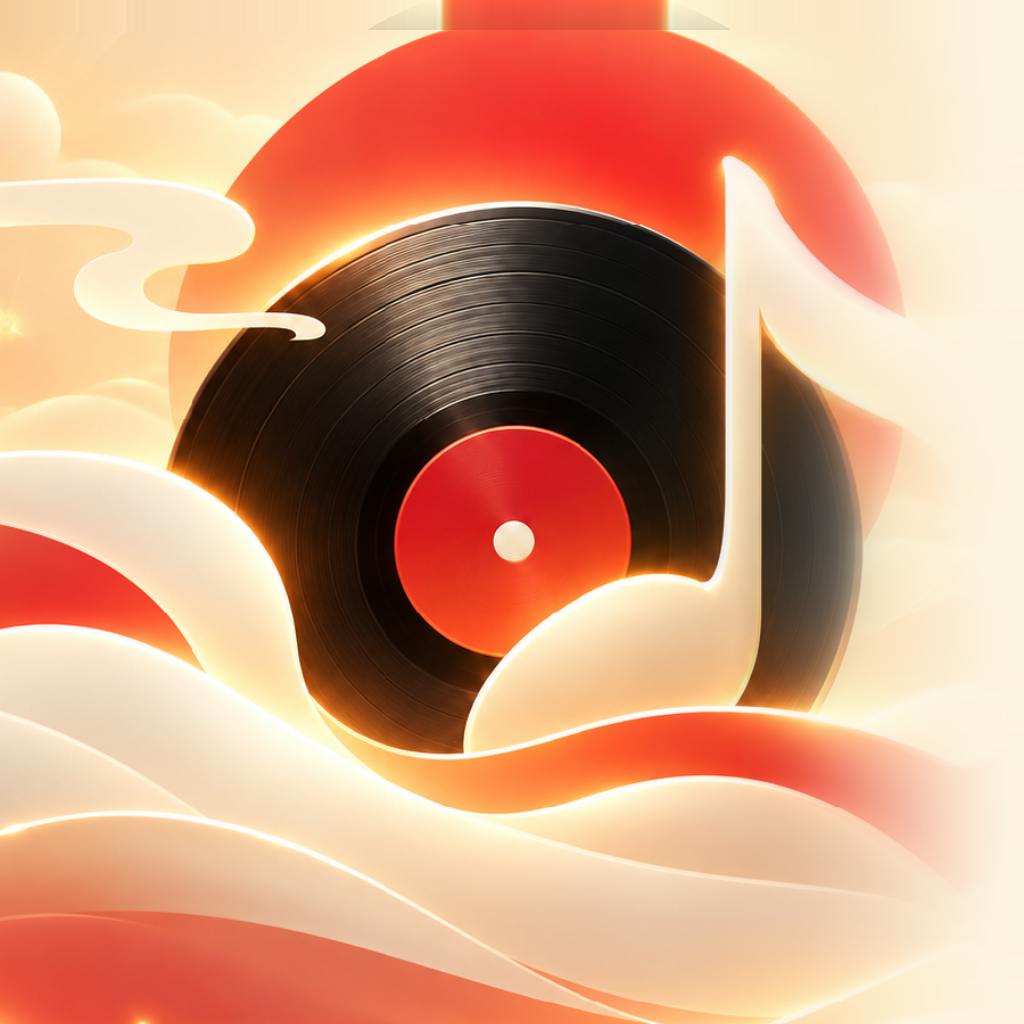
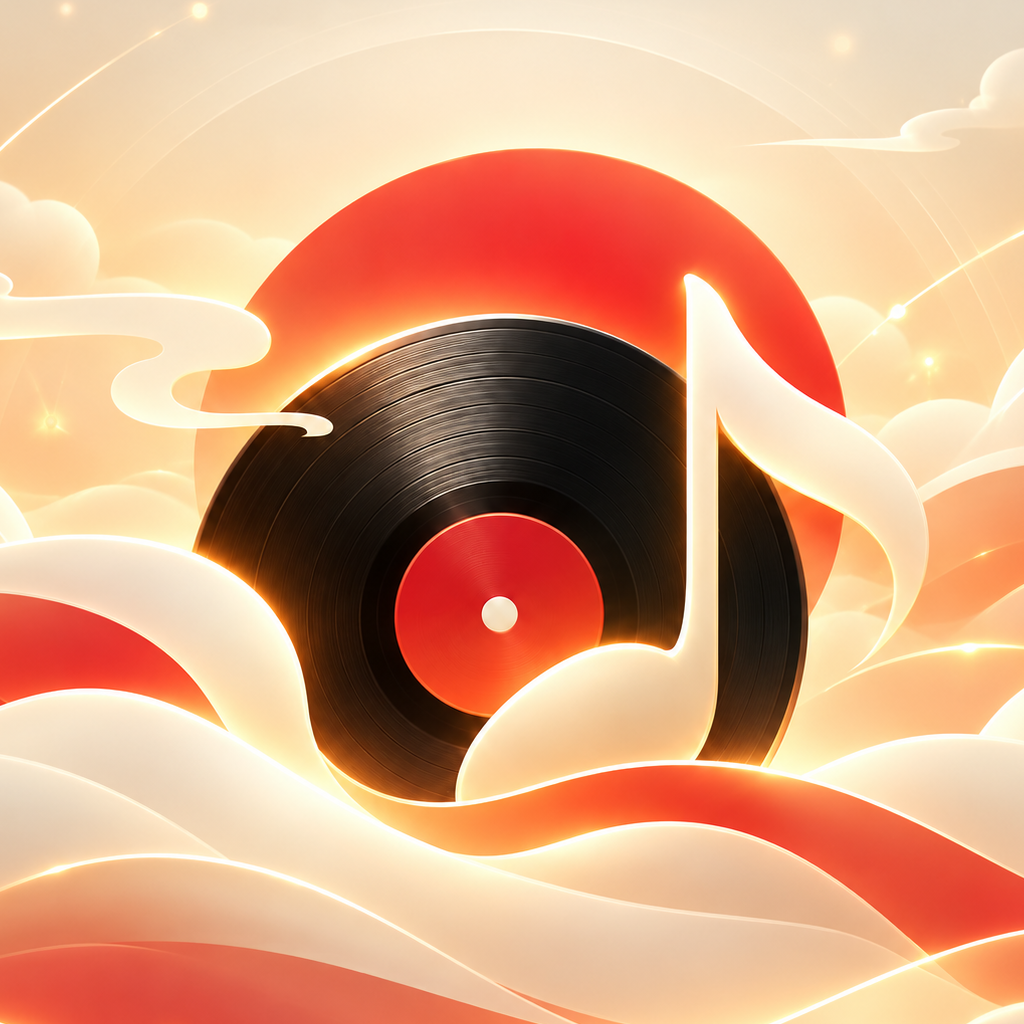
换应用图标：用户自己调好的那一版 (#541)

diff --git a/internal/platform/icon_test.go b/internal/platform/icon_test.go
@@ -217,7 +217,7 @@ func checkSizeStillReadsAsTheSubject(t *testing.T, size int) {
 	}
 	w, o := float64(subject)/float64(opaque), float64(accent)/float64(opaque)
 	d := float64(disc) / float64(opaque)
-	// ⚠ **阈值是按这张图标量的**：源图上红日（主体）占 67%、黑胶 13%、米色底 14%，
+	// ⚠ **阈值是按这张图标量的**：源图上红日（主体）占 66%、黑胶 11%、米色底 19%，
 	// 各尺寸几乎不变（缩到最小那一档黑胶会被米色稀释到 7% 上下）。
 	// 而**切完圆角留白之后**（图案只占画布的 0.824² ≈ 68%）再缩到最小那一档，
 	// 三个色系都会被彼此稀释一档。
@@ -228,10 +228,10 @@ func checkSizeStillReadsAsTheSubject(t *testing.T, size int) {
 	// **黑胶唱片**（细节）。
 	//
 	// ⚠ **米色那条在 2026-10-26 重新量过**：那之前源图是大远景，米色底占 59%，
-	// 阈值给的是 12%；后来把源图重新取景（**唱片摆到正中**，见
-	// `TestTheSubjectSitsInTheMiddle`），唱片和红日占满了画面，
-	// 米色底**实测 13.5%~18.4%**。阈值按同一套口径重取：**断在 10%**
-	// （实测最低 13.5%，留两成余量，和黑胶那条一个档）。
+	// 阈值给的是 12%；后来换了源图（**用户自己调好的那一版**，见
+	// `TestTheSubjectSitsInTheMiddle`），米色底**实测 14.2%~21.3%**。
+	// 阈值按同一套口径重取：**断在 10%**（实测最低 14.2%，留两成余量，
+	// 和黑胶那条一个档）。
 	// ⚠ **别把这条当成「可以随便放松」**：它抓的是「整张图糊成一种颜色」。
 	if w < 0.20 {
 		t.Errorf("%d：主体（橙红的大圆）只剩 %.1f%% 的不透明像素（要 ≥20%%）——"+
@@ -261,16 +261,19 @@ func isAccent(c color.NRGBA) bool { return c.R > 200 && c.G > 185 && c.B > 150 }
 // isDisc 认那张**黑胶唱片**（深色那一族）。
 func isDisc(c color.NRGBA) bool { return c.R < 90 && c.G < 90 && c.B < 90 }
 
-// TestTheSubjectSitsInTheMiddle 钉住「音乐的元素在画布正中」这件事。
+// TestTheSubjectSitsInTheMiddle 钉住「音乐的元素在画布上摆哪儿」。
 //
 // ⚠ **量的是「唱片暗部范围内那些红色像素的中位数位置」**，不是唱片的暗部范围本身：
-// 唱片的下半截被米色的浪盖住了一部分，**暗部的范围因此偏上偏左**（量出来是
-// 42% 那一档），而**人眼看到的唱片中心**（中间那圈红标签）在正中。
+// 唱片的下半截被米色的浪盖住了一部分，**暗部的范围因此偏上偏左**，
+// 而**人眼看到的唱片中心**（中间那圈红标签）才是准的。
 // 为什么用中位数：红标签是那一块里红色像素**最多**的地方，红日的边只有零星几片；
 // **中位数**落在标签上，用均值会被红日拉走。
 //
-// 2026-10-26 那次重新取景就是照这个口径做的：标签摆到正中，
-// 唱片占画布约 **67%**（之前是 78%，用户嫌那一个太大）。
+// **2026-10-26 用户自己调好了构图**：红日整个圆顶露在上面（画布上边留出一大片天），
+// 唱片刻意**压在下半**。所以：
+//   - **左右**：唱片要居中（50% ± 4%）；
+//   - **上下**：唱片落在 **50%~65%**（下半）—— 不是「居中」，是「别回到正中」
+//     （回到正中，红日的圆顶就又被上边切掉了，那正是用户要修的那件事）。
 func TestTheSubjectSitsInTheMiddle(t *testing.T) {
 	// 量的是**源图**（`iconArt()`），不是画出来的那一档：取景这件事发生在源图上，
 	// 而画的时候图案方块是**居中**贴进画布的（`fillIcon`），源图的中心也就是
@@ -283,9 +286,46 @@ func TestTheSubjectSitsInTheMiddle(t *testing.T) {
 	if !ok {
 		t.Fatalf("源图上找不到唱片（暗部）或它中间的红标签")
 	}
-	if math.Abs(cx-0.5) > 0.04 || math.Abs(cy-0.5) > 0.04 {
-		t.Errorf("唱片中心的红色像素中位数在 %.1f%% / %.1f%%，要落在 50%% ± 4%% ——"+
-			"它偏了，菜单栏那一档看上去就是「挤在角落里」", cx*100, cy*100)
+	if math.Abs(cx-0.5) > 0.04 {
+		t.Errorf("唱片中心的水平位置在 %.1f%%，要落在 50%% ± 4%% ——"+
+			"它左右偏了，看上去不在中间", cx*100)
+	}
+	if cy < 0.50 || cy > 0.65 {
+		t.Errorf("唱片中心的竖直位置在 %.1f%%，要落在 50%%~65%%（下半）——"+
+			"它太靠上了，红日的圆顶就露不出来", cy*100)
+	}
+}
+
+// TestTheSunIsNotCutAtTheTop 钉住「红日的圆顶没被画布上边切掉」。
+//
+// 用户 2026-10-26 说的原话：「让那个红圆的顶部正常露出来，现在被切了一点点」。
+// 这一条是那句话的判据：**画布最上面那一条不能有红日**——
+// 有就说明日顶被上边削平了（那一版日是个被平切的弧，看着像缺了一块）。
+// 当前这张图里红日从画布的 **20.7%** 处才开始（上面留着天），余量很足。
+func TestTheSunIsNotCutAtTheTop(t *testing.T) {
+	art, err := iconArt()
+	if err != nil {
+		t.Fatalf("读源图：%v", err)
+	}
+	size := art.Bounds().Dy()
+	first := -1
+	for y := 0; y < size && first < 0; y++ {
+		for x := 0; x < art.Bounds().Dx(); x++ {
+			c := art.NRGBAAt(x, y)
+			// 红日那一族：红得很、但不发白（米色的云和浪都是发白的）
+			if c.A < 128 || c.R < 180 || c.B > 150 {
+				continue
+			}
+			first = y
+			break
+		}
+	}
+	if first < 0 {
+		t.Fatalf("源图上找不到红日")
+	}
+	if first < size/20 {
+		t.Errorf("红日从画布的第 %d 行就开始了（%.1f%%）—— 它的顶被画布上边切了，"+
+			"看着像缺了一块", first, 100*float64(first)/float64(size))
 	}
 }
 
